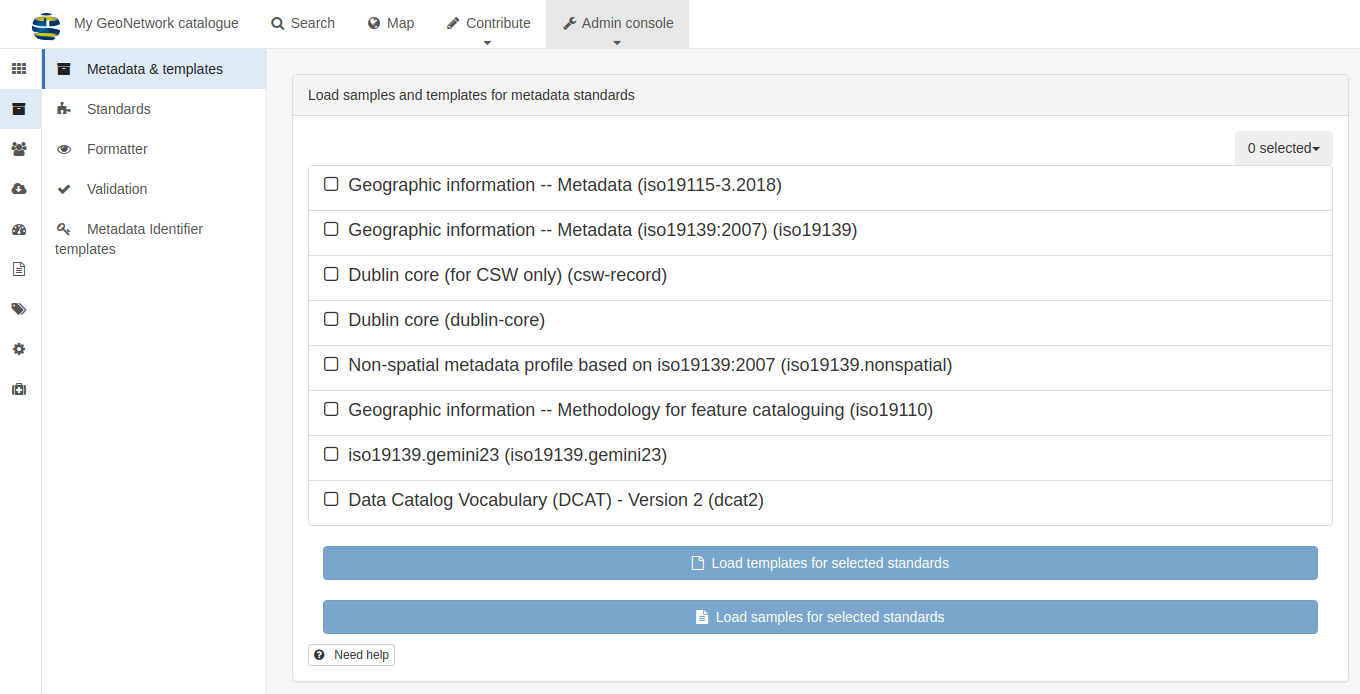
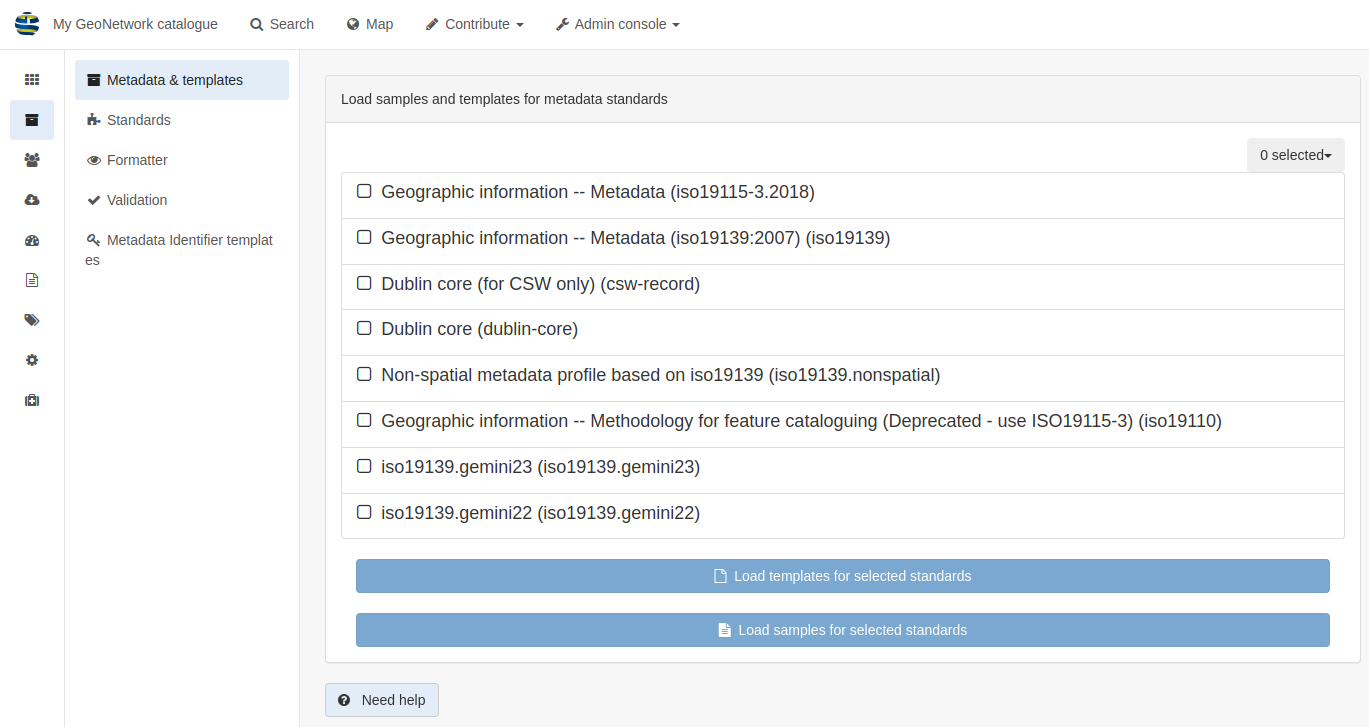
updates for GN4

diff --git a/docs/source/requirements.rst b/docs/source/requirements.rst
@@ -2,22 +2,22 @@ Requirements
 ============
 
 .. IMPORTANT::
-	To follow this guidance you will need to have an installation of GeoNetwork Open Source, with version 3.10.x. It will not work with earlier versions, and has not been extensively tested yet with GeoNetwork version 4.0.x.
+	To follow this guidance you will need to have an installation of GeoNetwork Open Source, with version 4.2.x. Some functionality worked differently in previous versions.
 
-For instructions on installing GeoNetwork, and guidance on getting started, please see the official documentation at `https://www.geonetwork-opensource.org/manuals/trunk/en/install-guide/index.html <https://www.geonetwork-opensource.org/manuals/trunk/en/install-guide/index.html>`__.
+For instructions on installing GeoNetwork, and guidance on getting started, please see the `official documentation <https://www.geonetwork-opensource.org/manuals/4.0.x/en/install-guide/index.html>`__.
 
-You will also need to install the plugins for `Gemini 2.3  <https://github.com/AstunTechnology/iso19139.gemini23>`__ (for spatial data), and `iso19139.nonspatial <https://github.com/AstunTechnology/iso19139.nonspatial>`__ (for non-spatial data). Additionally, you can install the plugin for metadata in `DCAT-AP v2 <https://github.com/AstunTechnology/dcat2>`__ format. Follow the links to each repository for instructions on how to install. Note that you will need access to the file system on the host computer to do this.
+You will also need to install the plugins for `Gemini 2.3  <https://github.com/AstunTechnology/iso19139.gemini23>`__ (for spatial data), and `iso19139.nonspatial <https://github.com/AstunTechnology/iso19139.nonspatial>`__ (for non-spatial data).
 
-Once you've restarted GeoNetwork, you can check that the metadata profiles have loaded correctly by logging in as an Administrator and going to the admin console -> metadata and templates page. 
+Once you've restarted GeoNetwork, you can check that the metadata profiles have loaded correctly by logging in as an Administrator and going to the Admin console > **Metadata and templates** page. 
 
 The list should include the following additional entries (alongside the pre-loaded ones):
 
-* Non-spatial metadata profile based on iso19139:2007
-* iso19139.gemini23
-* Data Catalog Vocabulary (DCAT) - Version 2
+* Non-spatial metadata profile based on iso19139 (iso19139.nonspatial)
+* iso19139.gemini23 (iso19139.gemini23)
 
 |configuration_metadataandtemplates|
 
-Click the grey dropdown box marked **0 selected** and choose **All**, then click the blue buttons **Load templates for selected standards** and **Load samples for selected standards**.
+Click the dropdown box on the right marked **0 selected** and choose **All**, then click the buttons below the templates list to **Load templates for selected standards** and **Load samples for selected standards**.
+This will load all the available templates and sample records into your catalog.
 
 .. |configuration_metadataandtemplates| image:: media/configuration_metadataandtemplates.png
